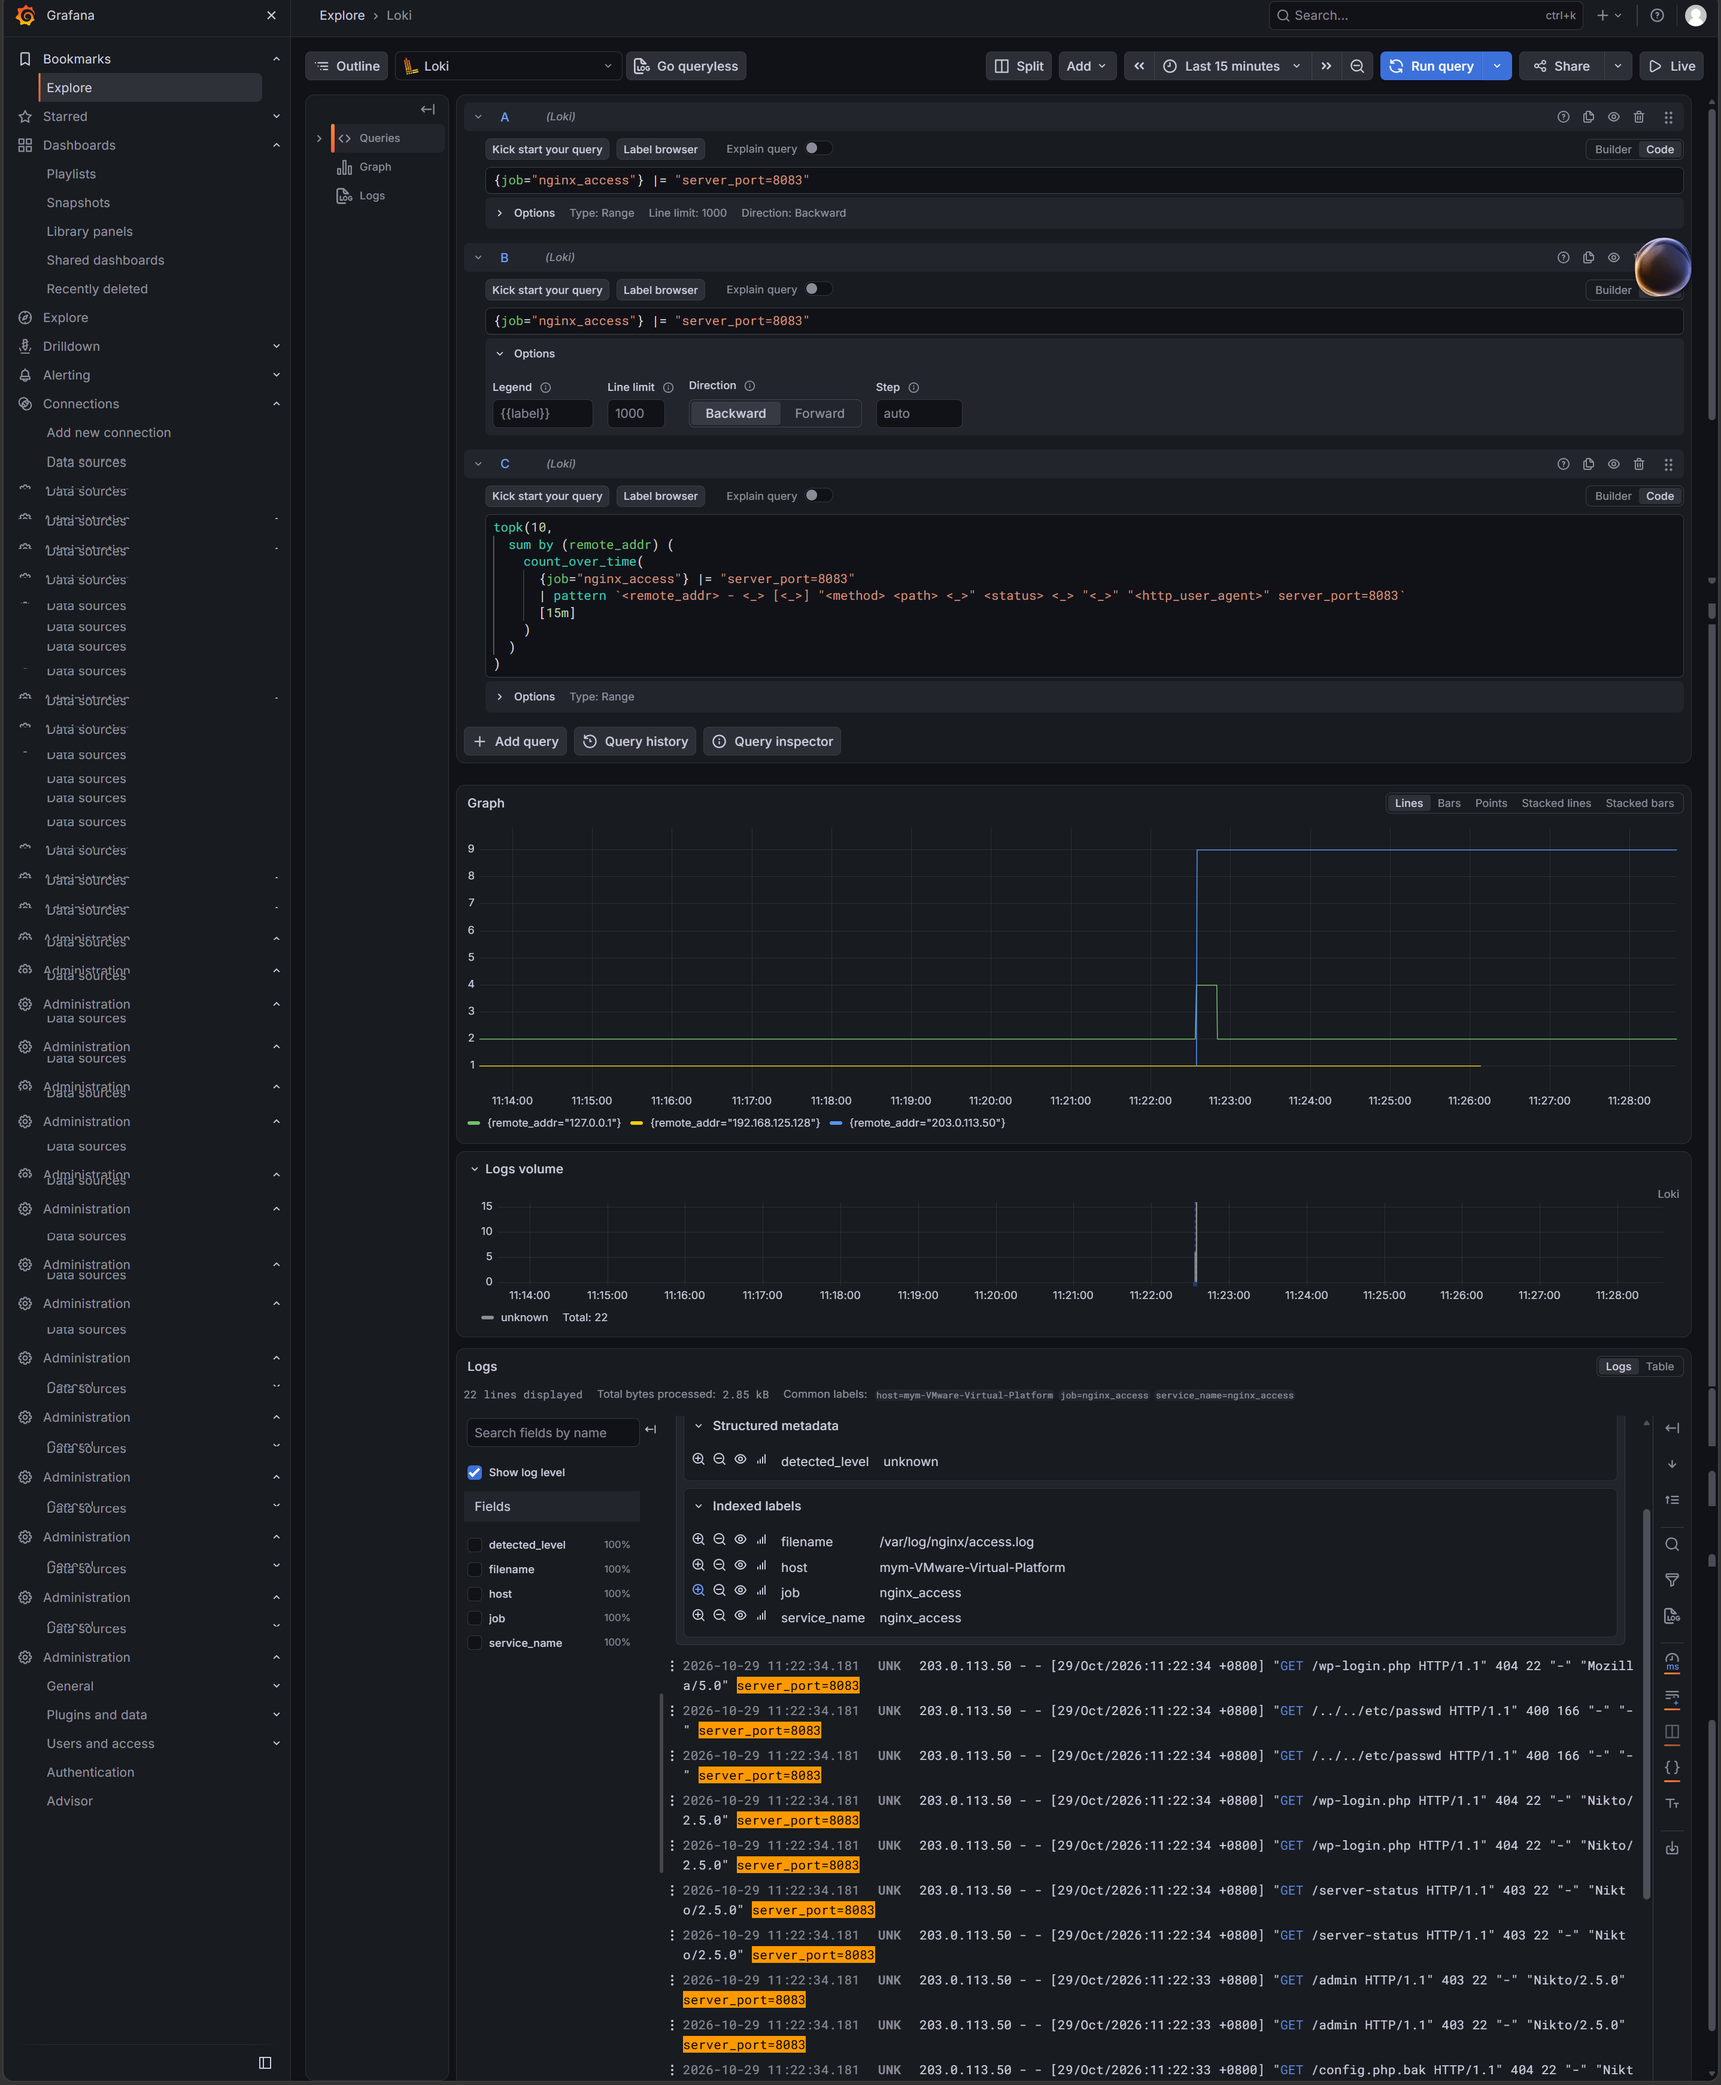
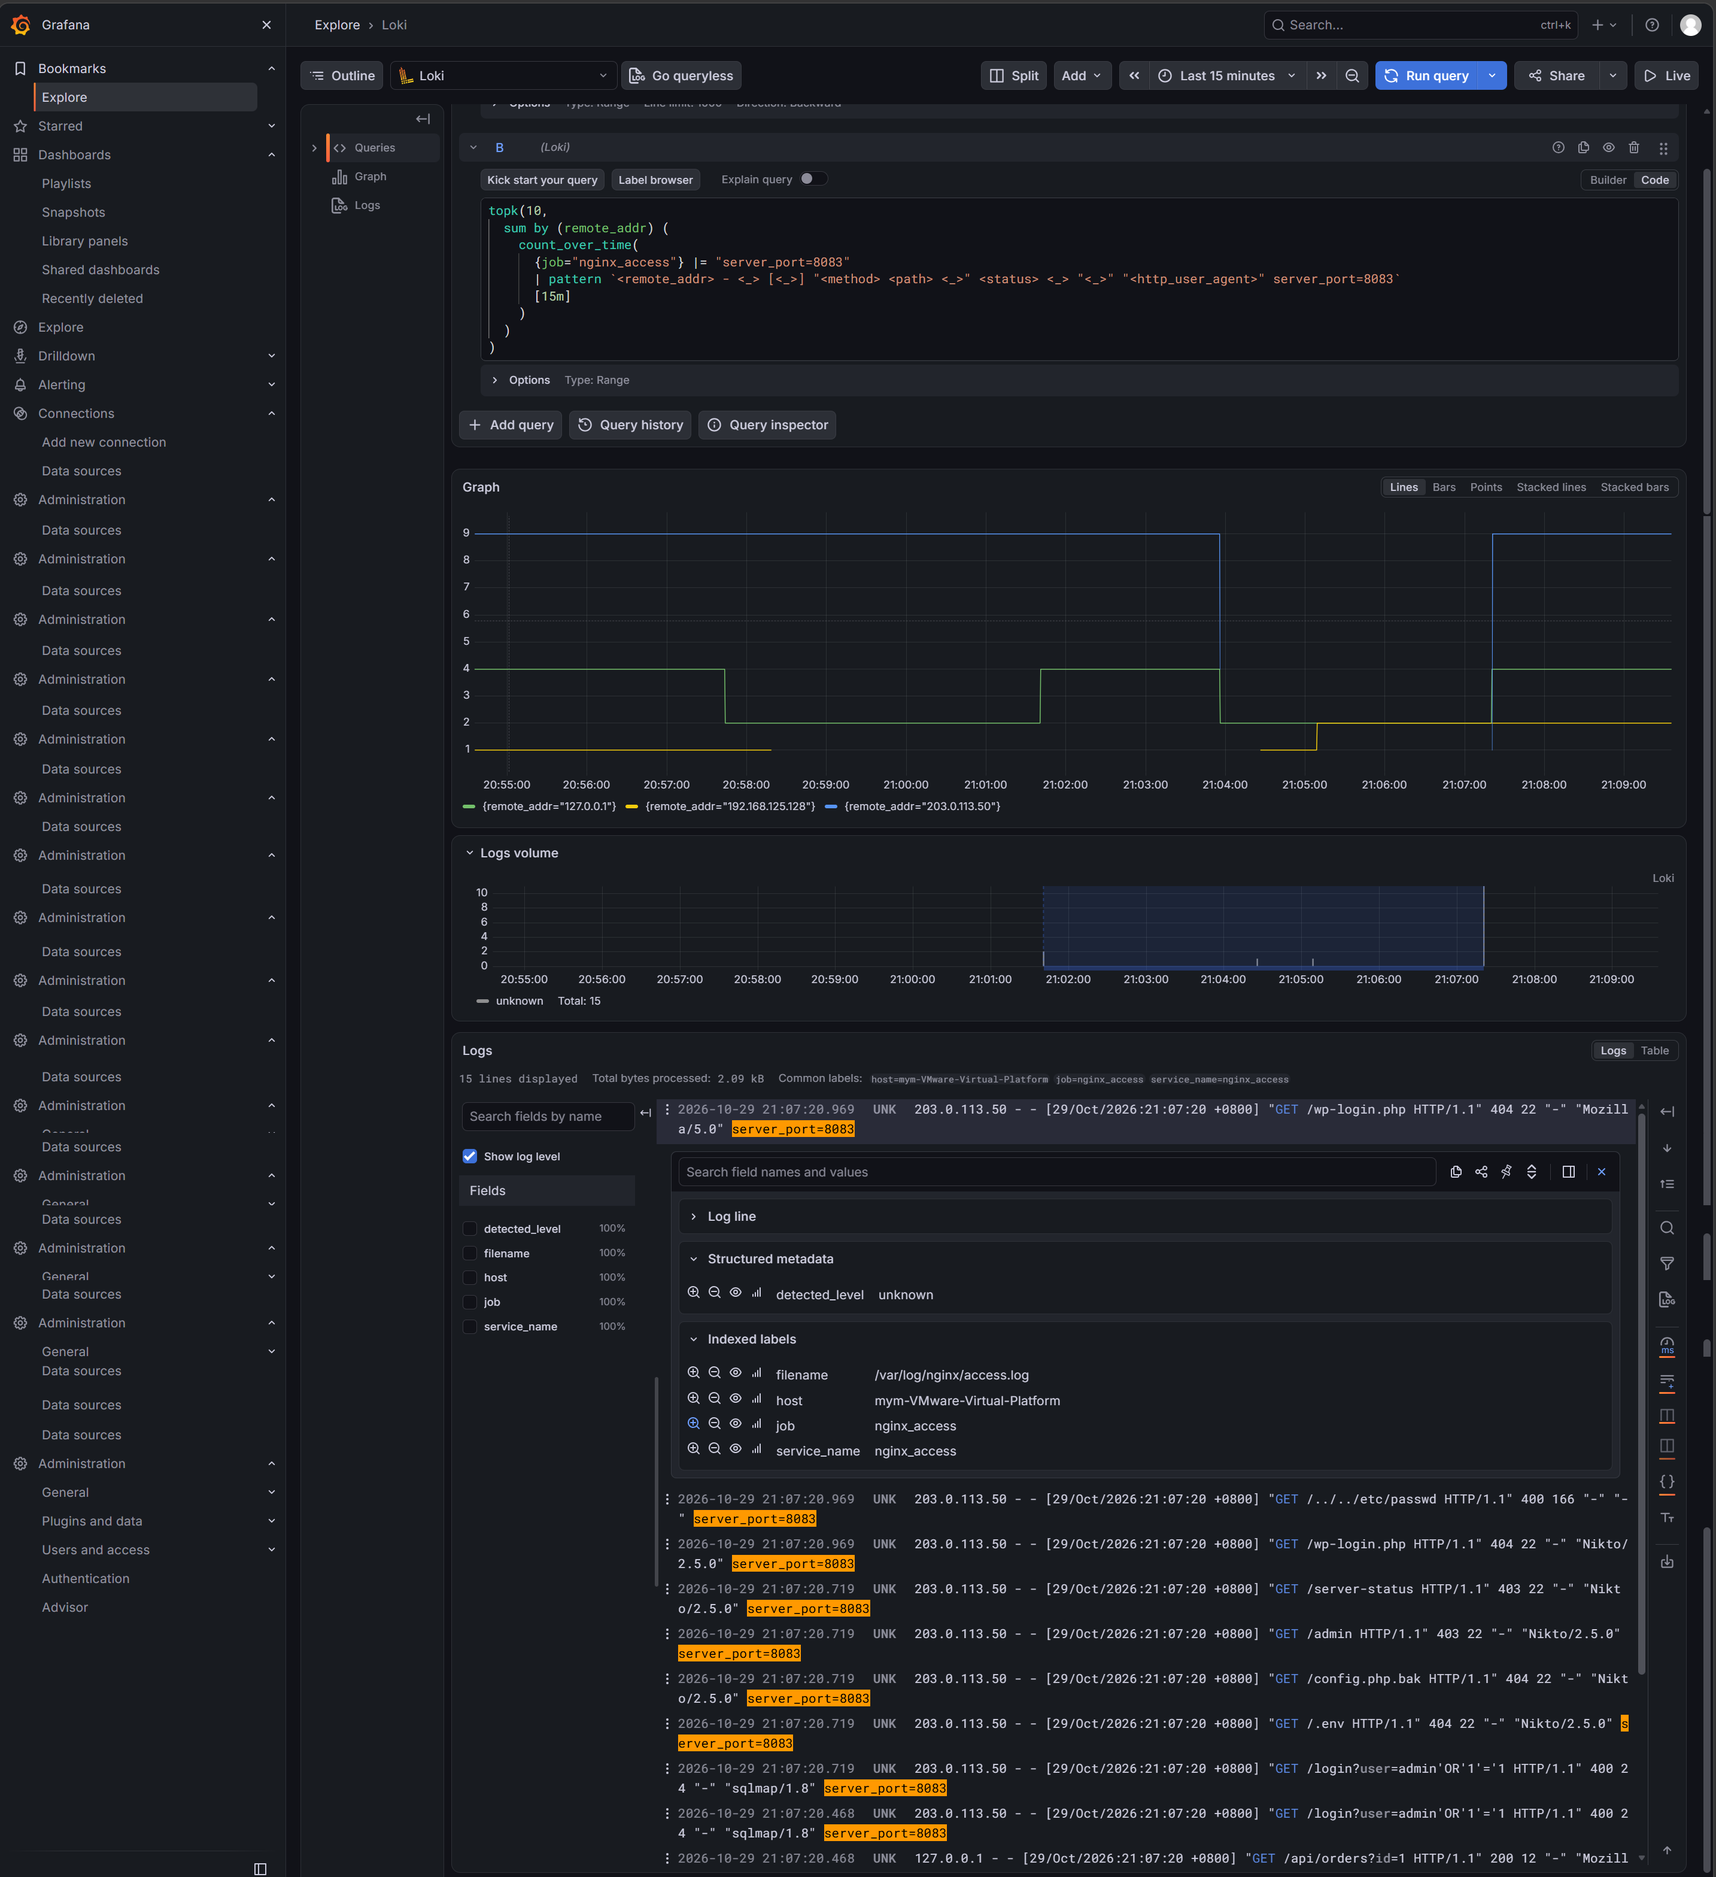
完成Lab8作业

diff --git a/2024010012马雨敏/Lab8/Lab8.md b/2024010012马雨敏/Lab8/Lab8.md
@@ -276,13 +276,13 @@ systemctl status alloy --no-pager
 >
 > 1. 8083 站点是否验证通过？`/`、`/admin`、`/.env` 的返回状态码分别是什么？
 >
->    答：8083 站点验证通过。`/` 返回 200，`/admin` 返回 403，`/.env` 返回 404。
+>    答：8083 站点验证通过；/ 返回 200，/admin 返回 403，/.env 返回 404。
 >
 > 2. `{job="nginx_access"} |= "server_port=8083"` 包含哪些正常请求？来源 IP 是什么？若宿主机无法访问，使用哪两条请求作为对照？
 >
->    答：包含 GET `/`、GET `/api/orders?id=1`、宿主机浏览器发起的 GET `/`；
-来源 IP：`127.0.0.1`（本机 curl）、`192.168.125.128`（宿主机）；
-如果宿主机无法访问，使用 `curl http://127.0.0.1:8083/admin` 和 `curl http://127.0.0.1:8083/.env` 这两条手工请求作为对照。
+>    答：包含 GET /、GET /api/orders?id=1、宿主机浏览器发起的 GET /；
+来源 IP：127.0.0.1（本机 curl）、192.168.125.128（宿主机）；
+若宿主机无法访问，使用 GET /admin 和 GET /.env 两条手工探测请求作为对照。
 
 ![概览](imgs/lab8-overview.png)
 
@@ -372,20 +372,20 @@ sudo tail -n 30 /var/log/nginx/access.log
 >
 > 1. 选择了哪一条日志？原文是什么？
 >
->    答：203.0.113.50 - - [29/Oct/2026:11:22:33 +0800] "GET /login?user=admin'OR'1'='1 HTTP/1.1" 400 24 "-" "sqlmap/1.8" server_port=8083
+>    答：选取来源203.0.113.50的 Web 路径探测日志；
+原文：2026-10-29 21:07:20.969 203.0.113.50 - - [29/Oct/2026:21:07:20 +0800] "GET /wp-login.php HTTP/1.1" 404 22 "-" "Nikto/2.5.0"
 >
 > 2. 该日志的 4W1R 分别是什么？
 >
->    答：When：29/Oct/2026:11:22:33 +0800
-Where：本机 nginx，标签`host="mym-VMware-Virtual-Platform"`，服务端口 8083
-Who：来源 203.0.113.50，User-Agent 自报为 sqlmap/1.8；该值由脚本设置，不能据此认定真实工具
-What：向 /login 发送包含`admin'OR'1'='1`的 GET 请求，进行 SQL 注入探测
-Result：演示站返回 400；该状态码只说明请求到达了对应 location，不能证明注入被识别、拦截或成功。
+>    答：When：`29/Oct/2026:21:07:20 +0800`
+Where：本机 Nginx 服务，标签`host="mym-VMware-Virtual-Platform"`，8083 站点
+Who：来源 IP `203.0.113.50`，User-Agent 自报为`Nikto/2.5.0`；UA 可伪造，不能仅凭 UA 判定真实工具
+What：向`/wp-login.php`发送 GET 请求，尝试探测 WordPress 后台登录地址
+Result：返回状态码 404，代表该页面不存在；仅证明请求到达 Nginx，探测未成功
 >
 > 3. 攻击请求与正常请求在来源、User-Agent、路径上有哪些差异？
 >
->    答：来源 IP：正常请求来源为127.0.0.1（本机）、192.168.125.128（宿主机浏览器）；攻击请求来源为203.0.113.50。
-User-Agent：正常请求 UA 是标准浏览器标识（Firefox）；攻击请求 UA 为扫描工具标识（sqlmap/1.8、Nikto/2.5.0），非常规浏览器 UA。访问路径：正常请求访问/、/api/orders?id=1这类业务接口；攻击请求访问/login、/.env、/config.php.bak、/../../etc/passwd等敏感路径，携带 SQL 注入、目录遍历、备份文件探测 payload。
+>    答：来源上攻击流量为`203.0.113.50`，正常请求多为`127.0.0.1`、宿主机内网 IP；攻击 UA 常为扫描工具标识（Nikto、sqlmap），正常请求是浏览器 UA；攻击路径是`/wp-login.php`、`/admin`、`/.env`这类敏感探测路径，正常路径为`/`、`/api/orders?id=1`业务接口。
 
 ---
 
@@ -435,11 +435,12 @@ sum by (remote_addr) (
 >
 > 1. 请求数最多的来源 IP 是哪一个？请求数约为多少？
 >
->    答：请求数最多的来源 IP 是 **203.0.113.50**，请求数约 20 条（扫描攻击流量）。
+>    答：请求最多的来源 IP 是 **203.0.113.50**，请求数约 **9 条**，为 Nikto、sqlmap 的攻击扫描流量。
 >
 > 2. 除攻击来源外还有哪些来源？分别对应什么请求？
 >
->    答：- 来源 IP：127.0.0.1，对应请求：访问 `/`、`/api/orders?id=1`，为本机正常业务访问；来源 IP：192.168.125.128，对应请求：访问 `/`，为宿主机浏览器正常网页访问。
+>    答：- `127.0.0.1`：本机回环地址，2 条手工请求、2 条脚本正常业务请求；
+`192.168.125.128`：宿主机（浏览器），访问网站正常业务页面，如 `/`、`/api/orders?id=1` 等正常业务接口。
 ![来源 IP 聚合](imgs/lab8-top-ip.png)
 
 ### 5.2 User-Agent
@@ -482,13 +483,18 @@ sum by (http_user_agent) (
 >
 > 1. 出现了哪些 User-Agent？哪些具有自动化工具特征，哪些具有正常浏览器特征？
 >
->    答：自动化工具 UA：sqlmap/1.8、Nikto/2.5.0，属于扫描、注入工具，是自动化攻击特征；正常浏览器 UA：Mozilla/5.0 (X11; Linux x86_64) AppleWebKit/537.36 (KHTML, like Gecko) Firefox/120.0，是 Linux 下 Firefox 浏览器，属于正常浏览器特征。
+>    答：出现的 User-Agent：`Nikto/2.5.0`、`sqlmap/1.8`、`Mozilla/5.0 (X11; Linux x86_64) Firefox/128.0`
+自动化工具特征：`Nikto/2.5.0`（Web 扫描器）、`sqlmap/1.8`（SQL 注入工具）；
+正常浏览器特征：`Mozilla/5.0 (X11; Linux x86_64) Firefox/128.0`（Firefox 浏览器标识）。
 >
 > 2. 同一 User-Agent 对应多少条请求？请求了哪些路径？
 >
->    答：1. `sqlmap/1.8`：多条请求，访问路径 `/login?user=admin`，做 SQL 注入探测；
-2. `Nikto/2.5.0`：多条请求，访问 `/login.php`、`/etc/passwd`、`/server-status`、`/admin`、`/config.php.bak` 等敏感路径；
-3. `Mozilla/5.0 (X11; Linux x86_64) AppleWebKit/537.36 (KHTML, like Gecko) Firefox/120.0`：少量请求，访问首页 `/`、`/api/orders?id=1`，正常业务访问。
+>    答：1. **Nikto/2.5.0**：共 9 条
+请求路径：`/wp-login.php`、`/../../etc/passwd`、`/server-status`、`/admin`、`/config.php.bak`、`/.env`
+2. **sqlmap/1.8**：多条（截图里是`/login?user=admin'OR'1'='1`）
+请求路径：`/login?user=admin'OR'1'='1`
+3. **Mozilla/5.0 (X11; Linux x86_64) Firefox/128.0**：多条正常访问
+请求路径：`/`、`/api/orders?id=1`
 
 ![扫描器 UA](imgs/lab8-scanner.png)
 
@@ -534,8 +540,8 @@ sum by (path, status) (
 >
 > 1. 哪些路径属于业务正常路径？哪些属于攻击探测路径？
 >
->    答：正常业务路径：/、/api/orders；
-攻击探测路径：/admin、/login?xxx、/.env、/config.php.bak、/wp-login.php、/server-status、/../.../etc/passwd。
+>    答：业务正常路径：`/`、`/api/orders`
+攻击探测路径：`/admin`、`/login?…`、`/.env`、`/config.php.bak`、`/wp-login.php`、`/server-status`、`/../../etc/passwd`
 >
 > 2. 是否存在敏感路径返回 `200`？如果有，是哪一条？
 >
@@ -567,22 +573,13 @@ sum by (path, status) (
 >
 > 1. 正常流量的来源 IP 和 User-Agent 是什么？
 >
->    答：来源 IP：`127.0.0.1`；User-Agent：`Mozilla/5.0 (X11; Linux x86_64) Firefox/128.0`。
+>    答：来源 IP：`127.0.0.1`、宿主机地址（图中为`192.168.125.128`）
+User-Agent：`Mozilla/5.0 (X11; Linux x86_64) Firefox/128.0`
 >
 > 2. 仅依据“404 数量较多”判断攻击，会遗漏哪些信息？
 >
->    答： ① 部分攻击请求返回的是 400、403，不是 404，这部分攻击行为会漏掉；
-② 无法区分 404 是正常访问产生，还是扫描探测产生；
-③ 丢失来源 IP、请求路径、UA、请求时间聚集特征这些关键判断依据；
-④ 无法识别伪装成正常浏览器 UA 的攻击流量。
+>    答： 1. 会遗漏**403、400**这类同样属于攻击探测返回的状态码；2. 无法区分流量来源 IP，不知道哪些是攻击 IP、哪些是正常用户；3. 看不到 User-Agent，无法识别扫描工具（nikto、sqlmap）；4. 看不到访问路径，无法判断是敏感探测路径还是普通不存在的页面；5. 看不到时间分布，无法识别短时间集中爆发的扫描特征；6. 部分攻击流量不一定返回 404，单纯统计 404 会漏掉这部分攻击行为。
 
-今天 20:19
-
- 如何识别伪装成正常浏览器UA的攻击流量？
-
- 除了文中提到的，还有哪些因素会导致404错误？
-
- 如何根据来源IP、请求路径、UA、请求时间聚集特征判断攻击？
 
 ---
 
@@ -647,13 +644,13 @@ sudo tail -n 20 /var/log/nginx/error.log
 >
 > 1. 时间线覆盖了哪些关键请求？
 >
->    答：① 来自`203.0.113.50`的 Web 探测攻击请求（SQL 注入、路径穿越、敏感文件 / 后台路径扫描）；② 来自`203.0.113.21`的 SSH 暴力破解请求，包含多次密码失败，并且存在一条成功 SSH 登录记录；③ 本地`127.0.0.1`的正常业务访问请求（`/`、`/api/orders`）；④ 另外还有`198.51.100.77`的 SSH 爆破尝试。
+>    答：1. 正常业务访问：`/`、`/api/orders`，浏览器 Firefox 访问，返回 200；2. Nikto 扫描探测：`/wp-login.php`、`/admin`、`/server-status`、`/.env`、`/config.php.bak`、`/../../etc/passwd`，返回 403/404；3. sqlmap 注入探测：`/login` 带 SQL 注入 payload，返回 400；4. SSH 暴力破解尝试：来自`203.0.113.21`、`198.51.100.77`的 SSH 账号爆破，包含 test、admin、root、oracle 等用户名，存在一条来自`203.0.113.21`的 SSH 成功登录记录；5. 本机 / 宿主机正常 SSH 登录。
 >
 > 2. 结论属于哪一项？依据是什么？排除了哪种可能？
 >
->    答：结论：**存在 SSH 暴力破解并且成功登录，Web 侧 8083 站点未发现漏洞利用成功迹象**。
-依据：auth.log 中`203.0.113.21`有大量 SSH Failed 密码记录，同时出现`Accepted password for mym`成功登录；nginx error.log 无 8083 站点异常错误，access 日志里所有攻击探测路径仅返回 400/403/404，没有成功利用的证据。
-排除：**8083 Web 服务被直接入侵利用的可能性**；但本次只核查 auth.log 和 nginx 错误日志，不能排除主机侧其他风险。
+>    答：结论：**存在成功登录的利用迹象**。
+依据：auth.log 日志中存在 `203.0.113.21` 对账号`mym`的 SSH Accepted 成功登录记录；nginx 访问日志里仅为探测，没有 Web 侧漏洞利用成功返回 200 的敏感路径。
+排除：**仅 Web 扫描、未取得主机权限**的可能性。
 
 ---
 
